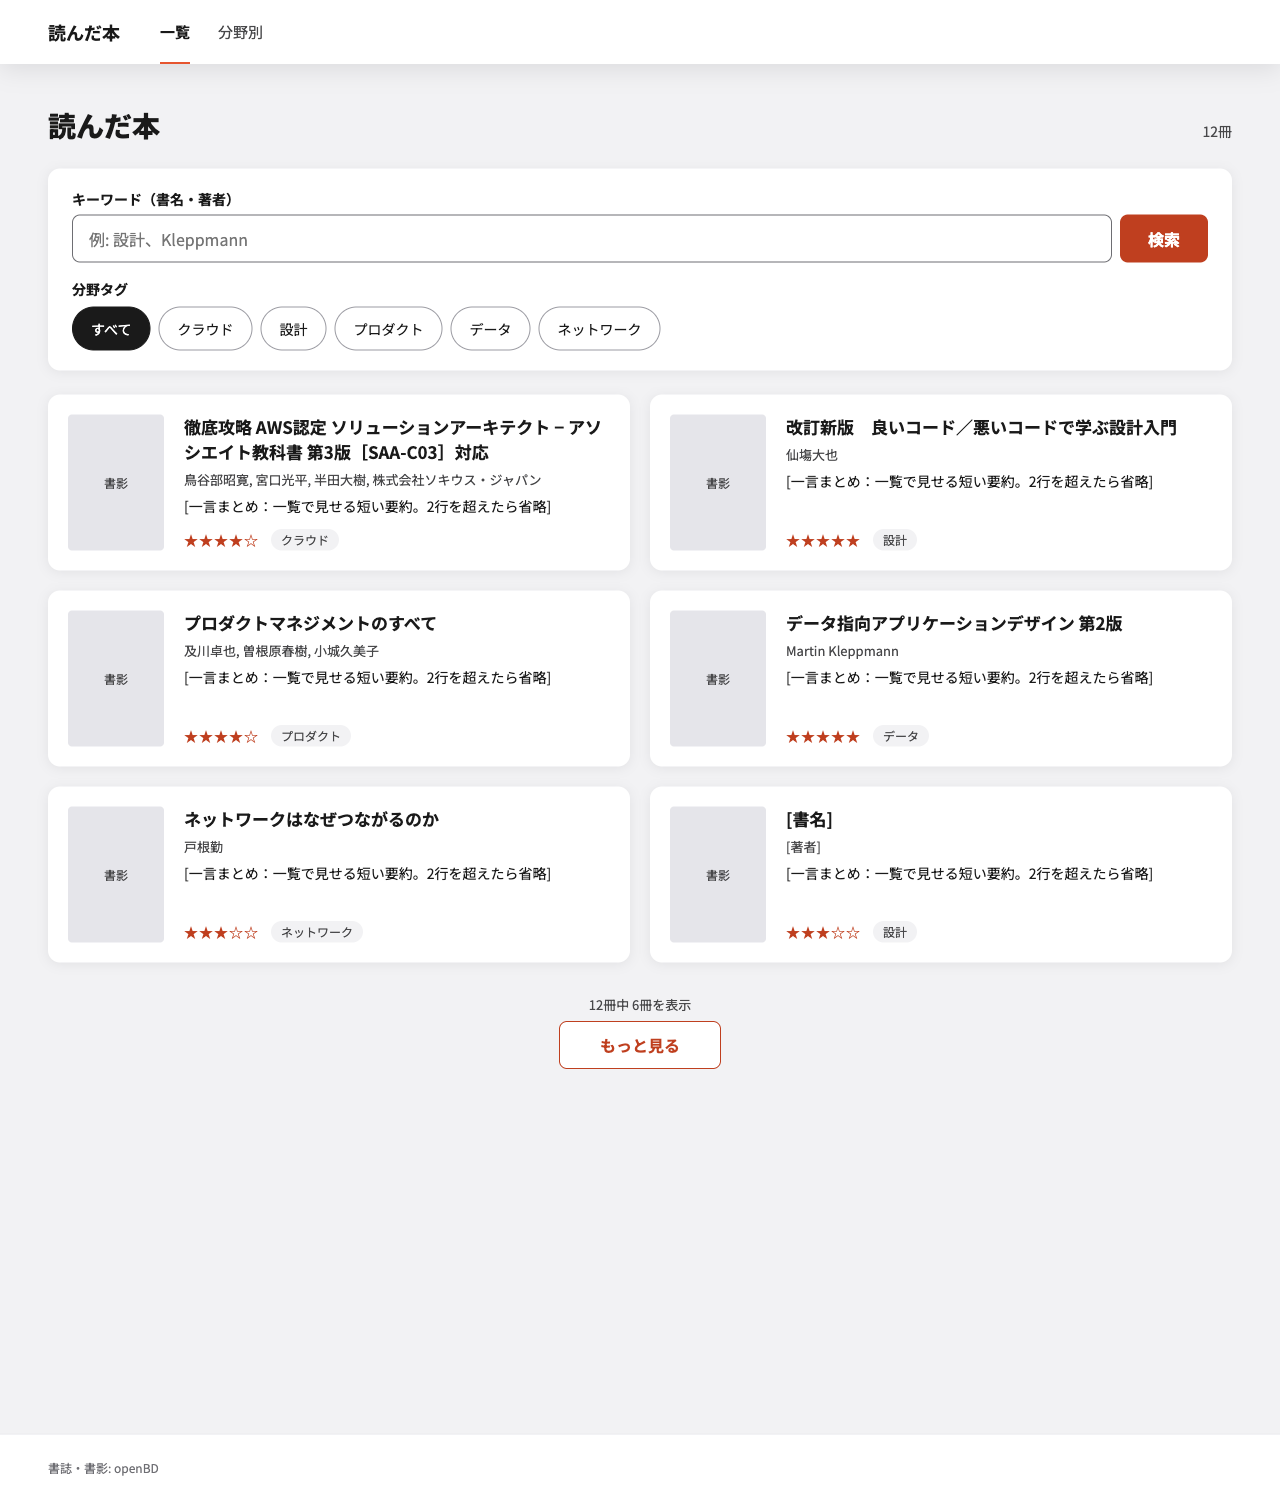
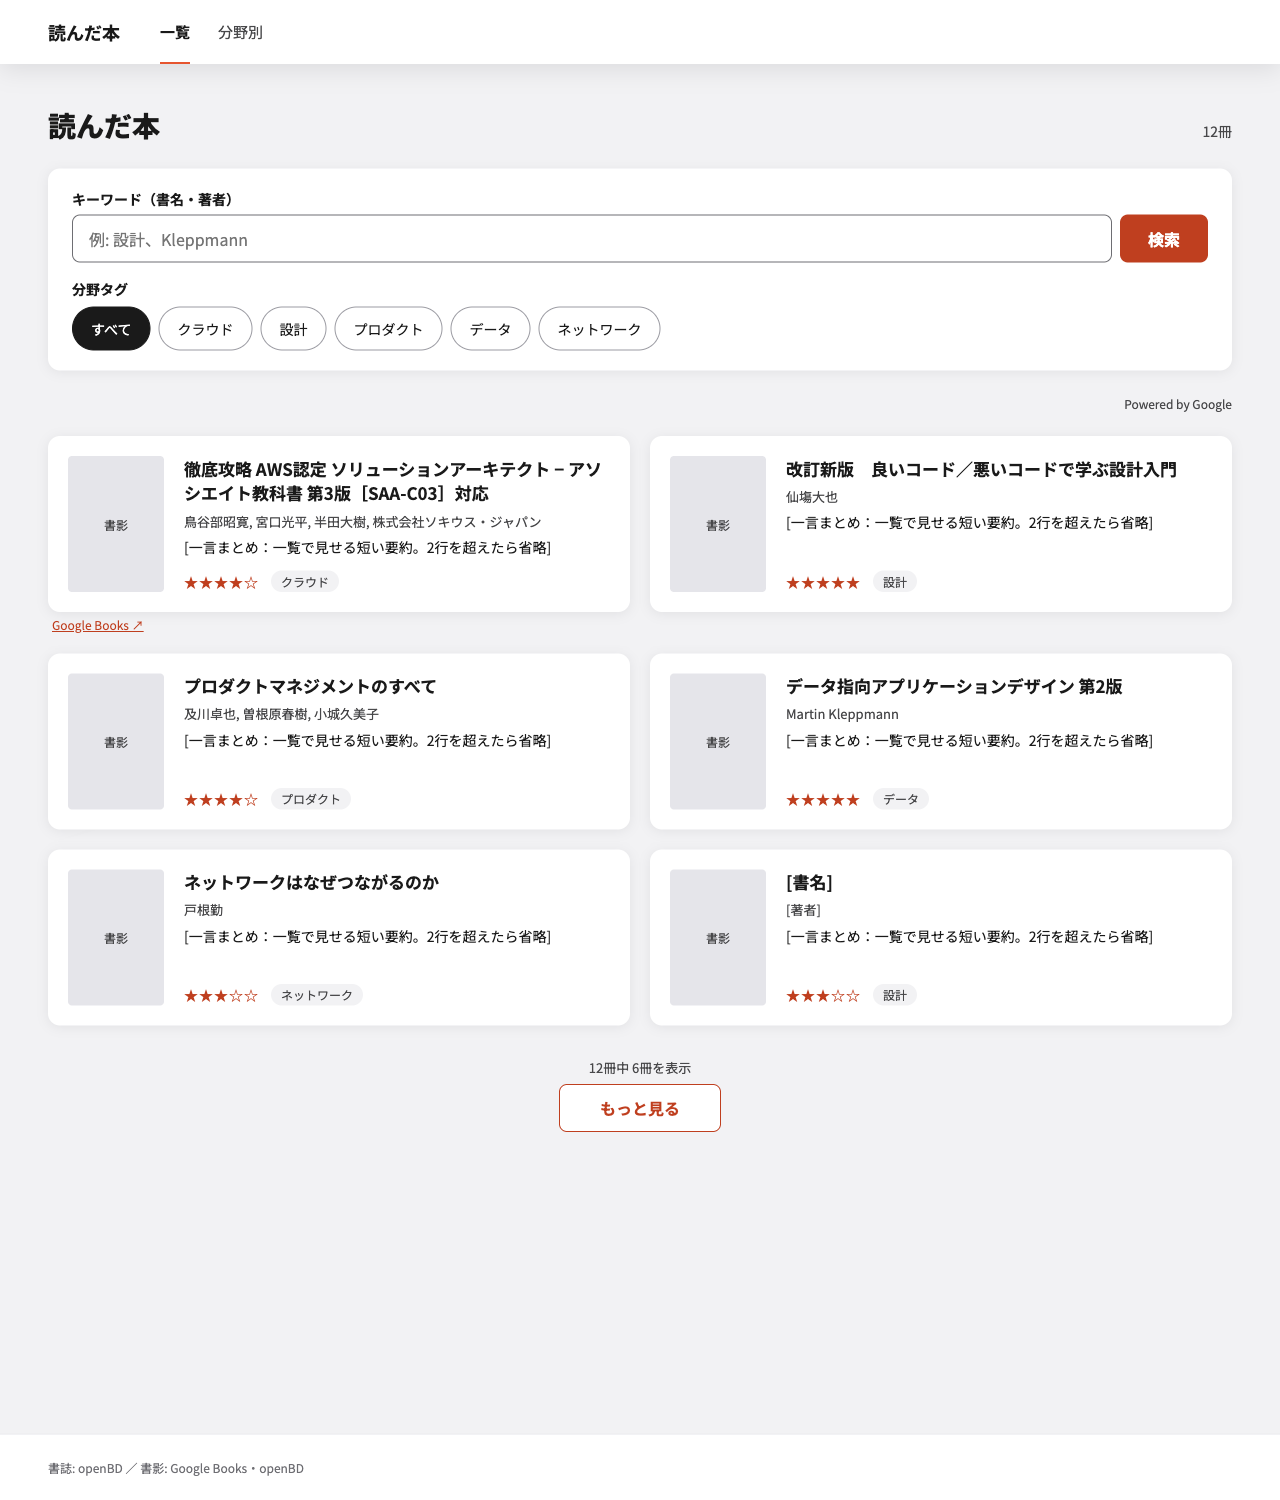
chore: 画面イメージにGoogle Booksの書影の表示を足す

diff --git a/docs/design/public-screens/list.html b/docs/design/public-screens/list.html
@@ -53,9 +53,10 @@ a{color:#bf3f1f}a:hover{color:#922d15}
       </fieldset>
     </form>
 
+    <p style="margin: 0; text-align: right; font-size: 12px; color: #48484a">Powered by Google</p>
     <ul style="list-style: none; margin: 0; padding: 0; display: grid; grid-template-columns: repeat(2, minmax(0, 1fr)); gap: 20px">
-      
-        <li>
+
+        <li style="display: flex; flex-direction: column; gap: 4px">
           <a href="detail.html" style="display: flex; gap: 20px; background: #ffffff; border-radius: 12px; padding: 20px; box-shadow: 0 2px 12px rgba(20,20,28,0.08); text-decoration: none; color: #1a1a1a; height: 176px; box-sizing: border-box">
             <div style="width: 96px; height: 136px; flex-shrink: 0; background: #e5e5ea; border-radius: 4px; display: flex; align-items: center; justify-content: center; font-size: 12px; color: #48484a">書影</div>
             <div style="display: flex; flex-direction: column; gap: 6px; min-width: 0">
@@ -68,6 +69,7 @@ a{color:#bf3f1f}a:hover{color:#922d15}
               </div>
             </div>
           </a>
+          <a href="#" style="width: fit-content; padding: 0 4px; font-size: 12px; color: #bf3f1f">Google Books ↗</a>
         </li>
       
         <li>
@@ -153,7 +155,7 @@ a{color:#bf3f1f}a:hover{color:#922d15}
     </div>
   </main>
 
-  <footer style="padding: 24px 48px; font-size: 12px; color: #6e6e73; border-top: 1px solid #e5e5ea; background: #ffffff">書誌・書影: openBD</footer>
+  <footer style="padding: 24px 48px; font-size: 12px; color: #6e6e73; border-top: 1px solid #e5e5ea; background: #ffffff">書誌: openBD ／ 書影: Google Books・openBD</footer>
 </div>
 </body>
 </html>

diff --git a/docs/design/public-screens/detail.html b/docs/design/public-screens/detail.html
@@ -26,7 +26,8 @@ a{color:#bf3f1f}a:hover{color:#922d15}
     <article style="background: #ffffff; border-radius: 12px; box-shadow: 0 2px 12px rgba(20,20,28,0.08); padding: 40px; display: flex; flex-direction: column; gap: 36px">
       <div style="display: flex; gap: 40px">
         <div style="display: flex; flex-direction: column; gap: 10px; width: 220px; flex-shrink: 0">
-          <div style="width: 220px; height: 312px; background: #e5e5ea; border-radius: 4px; display: flex; align-items: center; justify-content: center; font-size: 13px; color: #48484a">書影</div>
+          <div style="width: 220px; height: 312px; background: #e5e5ea; border-radius: 4px; display: flex; align-items: center; justify-content: center; font-size: 13px; color: #48484a">書影（Google Books）</div>
+          <p style="margin: 0; display: flex; flex-direction: column; gap: 4px; font-size: 12px; color: #48484a"><span>Powered by Google</span><a href="#" style="color: #bf3f1f">Google Books で見る ↗</a></p>
         </div>
 
         <div style="display: flex; flex-direction: column; gap: 16px; flex-grow: 1; min-width: 0">
@@ -61,7 +62,7 @@ a{color:#bf3f1f}a:hover{color:#922d15}
     </article>
   </main>
 
-  <footer style="padding: 24px 48px; font-size: 12px; color: #6e6e73; border-top: 1px solid #e5e5ea; background: #ffffff">書誌・書影: openBD</footer>
+  <footer style="padding: 24px 48px; font-size: 12px; color: #6e6e73; border-top: 1px solid #e5e5ea; background: #ffffff">書誌: openBD ／ 書影: Google Books・openBD</footer>
 </div>
 </body>
 </html>

diff --git a/docs/design/public-screens/counts.html b/docs/design/public-screens/counts.html
@@ -82,7 +82,7 @@ a{color:#bf3f1f}a:hover{color:#922d15}
     <p style="margin: 0; font-size: 13px; color: #48484a">冊数の多い順。本が付いていない分野は表示しません。</p>
   </main>
 
-  <footer style="padding: 24px 48px; font-size: 12px; color: #6e6e73; border-top: 1px solid #e5e5ea; background: #ffffff">書誌・書影: openBD</footer>
+  <footer style="padding: 24px 48px; font-size: 12px; color: #6e6e73; border-top: 1px solid #e5e5ea; background: #ffffff">書誌: openBD ／ 書影: Google Books・openBD</footer>
 </div>
 </body>
 </html>

diff --git a/docs/design/public-screens/README.md b/docs/design/public-screens/README.md
@@ -14,7 +14,7 @@
 
 ## 詳細
 
-[detail.html](./detail.html) — 書誌・書影・評価・分野タグ・一言まとめ・感想と、Amazon へのリンク。
+[detail.html](./detail.html) — 書誌・書影・評価・分野タグ・一言まとめ・感想と、Amazon へのリンク。Google Books の書影の例で、書影の下に「Powered by Google」と Google Books へのリンクを出す。
 
 ![詳細](./images/detail.png)
 
